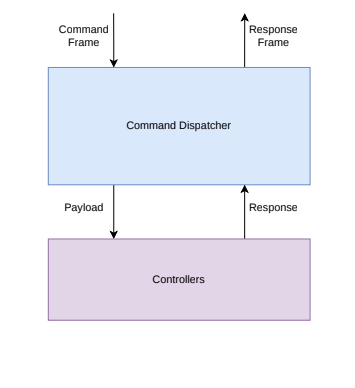
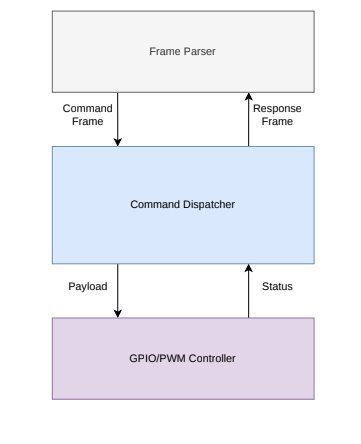
Added controller writup and pictures

diff --git a/_posts/2026-11-09-mcu-co_gpio_and_pwm_controllers.md b/_posts/2026-11-09-mcu-co_gpio_and_pwm_controllers.md
@@ -1,0 +1,288 @@
+---
+layout: post
+title: mcu-co How to write GPIO and PWM controllers (mcu-co P6)
+date: 2026-11-09 09:40:16
+description: TODO one-sentence summary of what this post teaches, using the mcu-co GPIO and PWM controllers as the example
+tags: MCU
+categories: mcu-co
+thumbnail: assets/img/blogs/mcu-co_Visual.png
+---
+
+## Introduction
+This post will go over the controller layer of mcu-co. Its job is to decode the incoming payload and translate it into calls on the general-purpose peripheral drivers (`gpio.c`, `pwm`/timer). Abstracting away the low-level behavior of those drivers keeps the controller code modular and testable, which matters a lot in embedded software design.
+
+The full implementation can be found [here](https://github.com/Causality-Labs/mcu-co_firmware/blob/main/src/gpio_controller.c) and [here](https://github.com/Causality-Labs/mcu-co_firmware/blob/main/src/pwm_controller.c).
+
+## High Level Overview
+
+{% include figure.liquid path="assets/img/mcu-co/mcu-co_controllers.png" class="img-fluid rounded z-depth-1" zoomable=true %}
+
+The block diagram above illustrates the purpose of the GPIO and PWM controllers: it simply takes the raw payload bytes handed to it by the dispatcher, validates and decodes them into pin or channel arguments, and calls into the underlying GPIO or timer driver to carry out the operation.
+
+
+## GPIO Controller
+
+Here are some sample functions to get a hint of how the gpio controller works:
+
+
+{% highlight c linenos %}
+status_t gpio_controller_io_cfg(const uint8_t *payload, uint8_t length)
+{
+    if (payload == NULL)
+    {
+        return STATUS_ERR_INVALID_ARG;
+    }
+
+    if (length != GPIO_CFG_PAYLOAD_LEN)
+    {
+        return STATUS_ERR_INVALID_ARG;
+    }
+
+    uint8_t dir  = payload[GPIO_CFG_DIR_IDX];
+    uint8_t port = payload[GPIO_CFG_PORT_IDX];
+    uint8_t pin  = payload[GPIO_CFG_PIN_IDX];
+
+    if ((dir != (uint8_t)GPIO_MODE_INPUT) && (dir != (uint8_t)GPIO_MODE_OUTPUT))
+    {
+        return STATUS_ERR_INVALID_ARG;
+    }
+
+    if (port >= GPIO_NUM_OF_PORTS)
+    {
+        return STATUS_ERR_INVALID_PIN;
+    }
+
+    if (pin > MAX_PIN_COUNT)
+    {
+        return STATUS_ERR_INVALID_PIN;
+    }
+
+    const gpio_pin_t gpio = {
+        .port = (gpio_port_t)port,
+        .pin  = pin,
+    };
+
+    const gpio_config_t config = {
+        .mode  = (gpio_mode_t)dir,
+        .type  = GPIO_TYPE_PUSH_PULL,
+        .speed = GPIO_SPEED_LOW,
+        .pull  = GPIO_PULL_NONE,
+    };
+
+    return gpio_init(&gpio, &config);
+}
+{% endhighlight %}
+
+`gpio_controller_io_cfg` validates the payload, then configures the given pin as an input or output.
+
+{% highlight c linenos %}
+status_t gpio_controller_write(const uint8_t *payload, uint8_t length)
+{
+    if (payload == NULL)
+    {
+        return STATUS_ERR_INVALID_ARG;
+    }
+
+    if (length != GPIO_WRITE_PAYLOAD_LEN)
+    {
+        return STATUS_ERR_INVALID_ARG;
+    }
+
+    uint8_t level = payload[GPIO_WRITE_LEVEL_IDX];
+    uint8_t port  = payload[GPIO_WRITE_PORT_IDX];
+    uint8_t pin   = payload[GPIO_WRITE_PIN_IDX];
+
+    if ((level != (uint8_t)GPIO_LOW) && (level != (uint8_t)GPIO_HIGH))
+    {
+        return STATUS_ERR_INVALID_ARG;
+    }
+
+    if (port >= GPIO_NUM_OF_PORTS)
+    {
+        return STATUS_ERR_INVALID_PIN;
+    }
+
+    if (pin > MAX_PIN_COUNT)
+    {
+        return STATUS_ERR_INVALID_PIN;
+    }
+
+    const gpio_pin_t gpio = {
+        .port = (gpio_port_t)port,
+        .pin  = pin,
+    };
+
+    return gpio_set_state(&gpio, (gpio_state_t)level);
+}
+{% endhighlight %}
+
+`gpio_controller_write` validates the payload, then drives the given pin high or low.
+
+{% highlight c linenos %}
+status_t gpio_controller_read(const uint8_t *payload, uint8_t length, bool *state)
+{
+    if ((payload == NULL) || (state == NULL))
+    {
+        return STATUS_ERR_INVALID_ARG;
+    }
+
+    if (length != GPIO_READ_PAYLOAD_LEN)
+    {
+        return STATUS_ERR_INVALID_ARG;
+    }
+
+    uint8_t port = payload[GPIO_READ_PORT_IDX];
+    uint8_t pin  = payload[GPIO_READ_PIN_IDX];
+
+    if (port >= GPIO_NUM_OF_PORTS)
+    {
+        return STATUS_ERR_INVALID_PIN;
+    }
+
+    if (pin > MAX_PIN_COUNT)
+    {
+        return STATUS_ERR_INVALID_PIN;
+    }
+
+    const gpio_pin_t gpio = {
+        .port = (gpio_port_t)port,
+        .pin  = pin,
+    };
+
+    return gpio_read(&gpio, state);
+}
+{% endhighlight %}
+
+`gpio_controller_read` validates the payload, then reads the current state of the given pin into `state`.
+
+## PWM Controller
+
+{% highlight c linenos %}
+status_t pwm_controller_channel_cfg(const uint8_t *payload, uint8_t length)
+{
+    if (payload == NULL)
+    {
+        LOG_ERROR(MODULE_NAME, "payload argument is null");
+        return STATUS_ERR_INVALID_ARG;
+    }
+
+    if (length != PWM_CHANNEL_CFG_PAYLOAD_LEN)
+    {
+        LOG_ERROR(MODULE_NAME, "invalid length %u, expected %u", length, PWM_CHANNEL_CFG_PAYLOAD_LEN);
+        return STATUS_ERR_INVALID_ARG;
+    }
+
+    uint8_t polarity = payload[PWM_CHANNEL_CFG_POL_IDX];
+
+    if ((polarity != TIMER_POLARITY_ACTIVE_LOW) && (polarity != TIMER_POLARITY_ACTIVE_HIGH))
+    {
+        LOG_ERROR(MODULE_NAME, "invalid polarity %u", polarity);
+        return STATUS_ERR_INVALID_ARG;
+    }
+
+    uint8_t port = payload[PWM_CHANNEL_CFG_PORT_IDX];
+    uint8_t pin  = payload[PWM_CHANNEL_CFG_PIN_IDX];
+
+    /* Given values the lookup overwrites: the compiler cannot see through the
+     * call, so -Wmaybe-uninitialized fires without them. */
+    timer_instance_t instance = TIMER_TIM2;
+    timer_channel_t channel   = TIMER_CH1;
+
+    status_t status_ret = resolve_channel(port, pin, &instance, &channel);
+
+    if (status_ret != STATUS_OK)
+    {
+        return status_ret;
+    }
+
+    const timer_pwm_config_t pwm_config = {
+        .duty_permille = 0U,
+        .polarity      = (timer_polarity_t)polarity,
+    };
+
+    return timer_pwm_channel_init(instance, channel, &pwm_config);
+}
+{% endhighlight %}
+
+`pwm_controller_channel_cfg` validates the payload, resolves the pin to its timer/channel, and configures that channel's polarity with a starting duty of 0.
+
+{% highlight c linenos %}
+status_t pwm_controller_channel_set(const uint8_t *payload, uint8_t length)
+{
+    if (payload == NULL)
+    {
+        LOG_ERROR(MODULE_NAME, "payload argument is null");
+        return STATUS_ERR_INVALID_ARG;
+    }
+
+    if (length != PWM_CHANNEL_SET_PAYLOAD_LEN)
+    {
+        LOG_ERROR(MODULE_NAME, "invalid length %u, expected %u", length, PWM_CHANNEL_SET_PAYLOAD_LEN);
+        return STATUS_ERR_INVALID_ARG;
+    }
+
+    uint8_t port = payload[PWM_CHANNEL_SET_PORT_IDX];
+    uint8_t pin  = payload[PWM_CHANNEL_SET_PIN_IDX];
+
+    /* Given values the lookup overwrites: the compiler cannot see through the
+     * call, so -Wmaybe-uninitialized fires without them. */
+    timer_instance_t instance = TIMER_TIM2;
+    timer_channel_t channel   = TIMER_CH1;
+
+    status_t status_ret = resolve_channel(port, pin, &instance, &channel);
+
+    if (status_ret != STATUS_OK)
+    {
+        return status_ret;
+    }
+
+    uint16_t duty = read_uint16_le(&payload[PWM_CHANNEL_SET_DUTY_IDX]);
+
+    return timer_pwm_set_duty(instance, channel, duty);
+}
+{% endhighlight %}
+
+`pwm_controller_channel_set` validates the payload, resolves the pin to its timer/channel, and sets that channel's duty cycle.
+
+{% highlight c linenos %}
+status_t pwm_controller_channel_get(const uint8_t *payload, uint8_t length, uint16_t *duty_permille)
+{
+    if (payload == NULL)
+    {
+        LOG_ERROR(MODULE_NAME, "payload argument is null");
+        return STATUS_ERR_INVALID_ARG;
+    }
+
+    if (length != PWM_CHANNEL_GET_PAYLOAD_LEN)
+    {
+        LOG_ERROR(MODULE_NAME, "invalid length %u, expected %u", length, PWM_CHANNEL_GET_PAYLOAD_LEN);
+        return STATUS_ERR_INVALID_ARG;
+    }
+
+    if (duty_permille == NULL)
+    {
+        LOG_ERROR(MODULE_NAME, "duty output argument is null");
+        return STATUS_ERR_INVALID_ARG;
+    }
+
+    uint8_t port = payload[PWM_CHANNEL_GET_PORT_IDX];
+    uint8_t pin  = payload[PWM_CHANNEL_GET_PIN_IDX];
+
+    /* Given values the lookup overwrites: the compiler cannot see through the
+     * call, so -Wmaybe-uninitialized fires without them. */
+    timer_instance_t instance = TIMER_TIM2;
+    timer_channel_t channel   = TIMER_CH1;
+
+    status_t status_ret = resolve_channel(port, pin, &instance, &channel);
+
+    if (status_ret != STATUS_OK)
+    {
+        return status_ret;
+    }
+
+    return timer_pwm_get_duty(instance, channel, duty_permille);
+}
+{% endhighlight %}
+
+`pwm_controller_channel_get` validates the payload, resolves the pin to its timer/channel, and reads that channel's current duty cycle into `duty_permille`.
+
